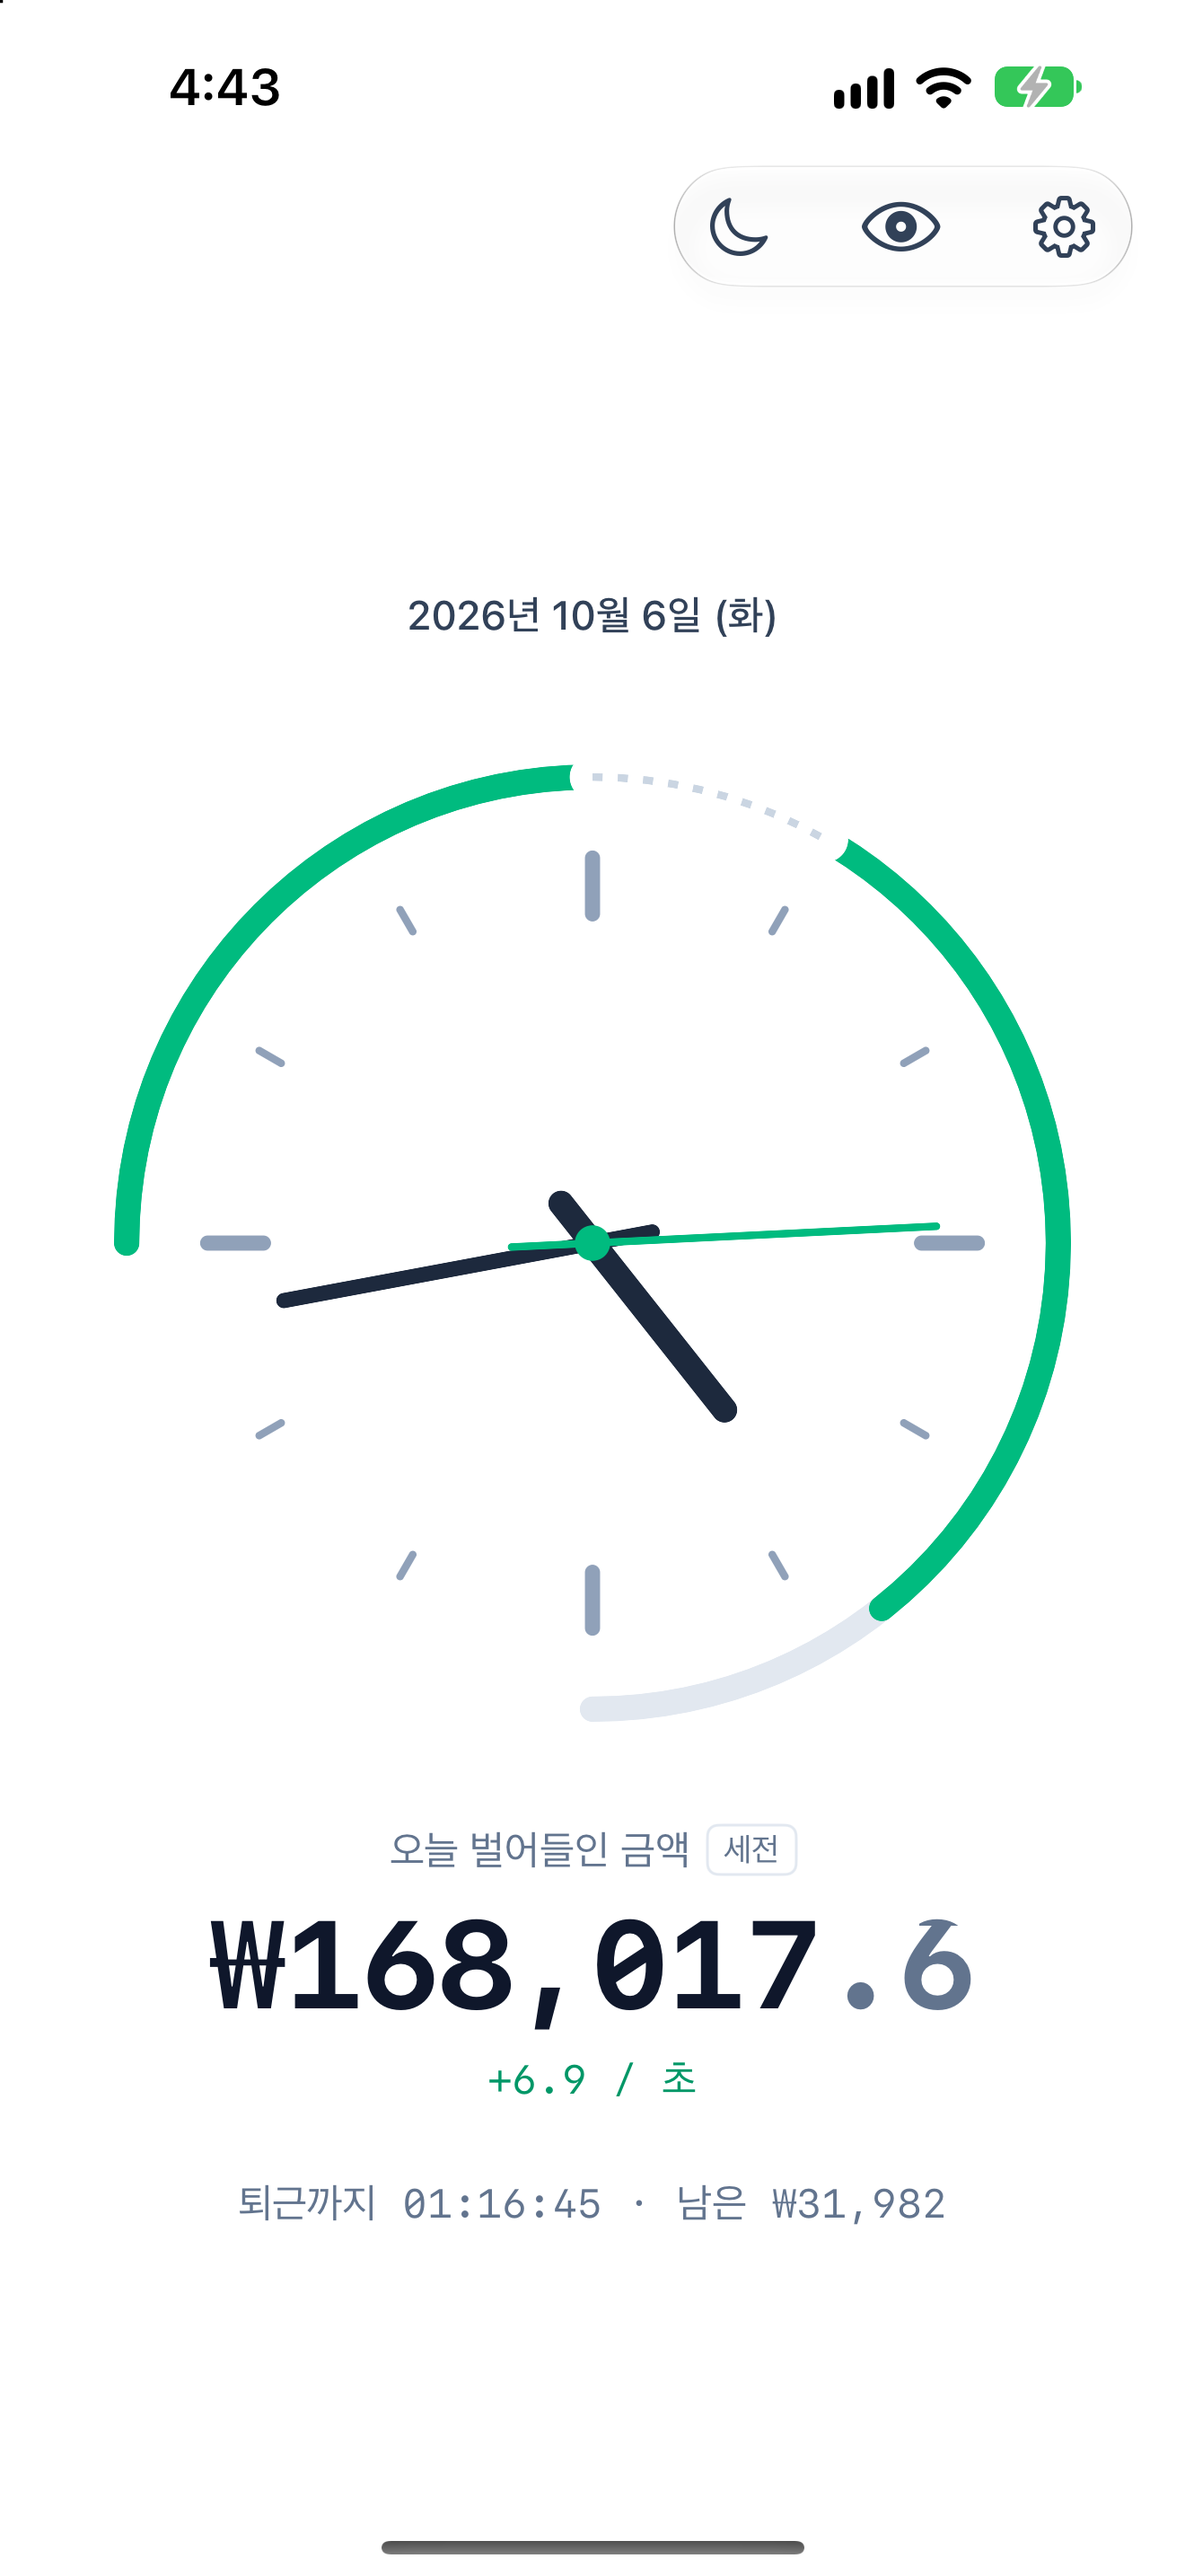
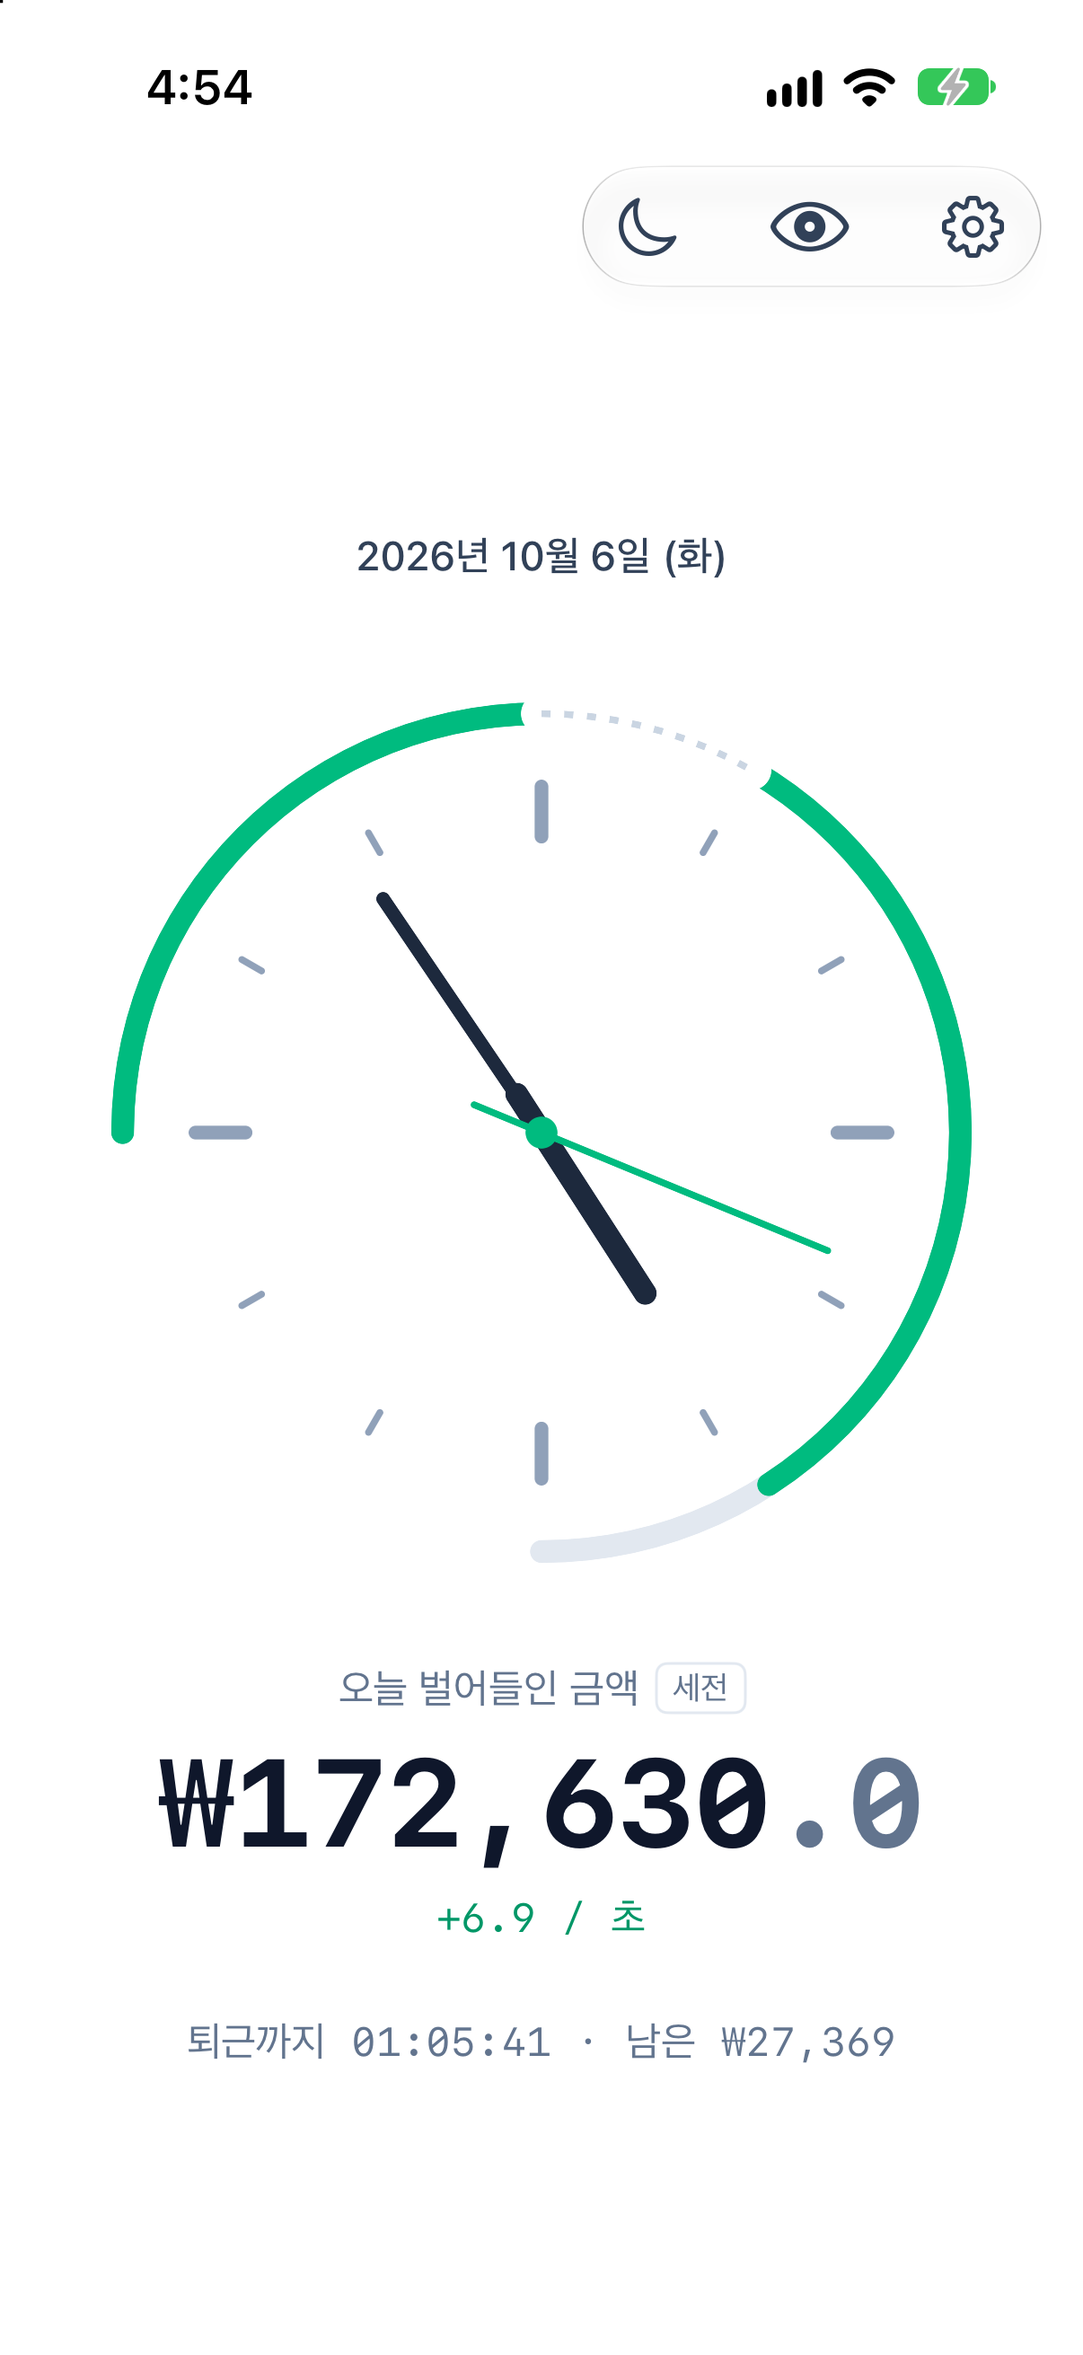
chore: 스크린샷을 6.3인치로 다시 찍고 Mac 스크린샷을 더한다
App Store Connect는 iPhone 스크린샷을 Dynamic Island 중형(1206×2622)으로 받는다.
Mac은 화면을 캡처하지 않고, 개발 빌드가 팝오버·설정 창을 PNG로 그려 내면
(-screenshotOut) compose-mac-screenshot.swift가 메뉴바와 바탕 위에 놓는다.

diff --git a/scripts/compose-mac-screenshot.swift b/scripts/compose-mac-screenshot.swift
@@ -1,0 +1,106 @@
+// Mac App Store 스크린샷(2880×1800)을 조립한다. scripts/appstore-screenshots-mac.sh가 부른다.
+//
+// 앱이 그려 낸 팝오버·설정 창 PNG를 받아 바탕에 놓고, 위에 메뉴바 한 줄을 그린다.
+// 실제 화면을 캡처하지 않는 이유: 화면 녹화 권한이 필요하고, 바탕화면과 다른 앱의
+// 메뉴바 항목이 그대로 찍힌다.
+//
+// 사용법: compose-mac-screenshot <light|dark> <메뉴바 금액> <출력> <PNG[:배율]>...
+//   PNG가 하나면 메뉴바 아래 오른쪽에(팝오버처럼), 둘이면 나란히 가운데에 놓는다.
+import AppKit
+
+let args = CommandLine.arguments
+guard args.count >= 5 else {
+    FileHandle.standardError.write(Data("사용법: compose-mac-screenshot <light|dark> <금액> <출력> <PNG[:배율]>...\n".utf8))
+    exit(2)
+}
+let dark = args[1] == "dark"
+let menuTitle = args[2]
+let outPath = args[3]
+let inputs: [(NSImage, CGFloat)] = args[4...].map { spec in
+    let parts = spec.split(separator: ":", maxSplits: 1).map(String.init)
+    guard let img = NSImage(contentsOfFile: parts[0]), let rep = img.representations.first else {
+        FileHandle.standardError.write(Data("이미지를 못 읽었다: \(parts[0])\n".utf8)); exit(1)
+    }
+    // 픽셀 크기로 다룬다 — 입력은 레티나(2×)로 그려진 PNG다.
+    img.size = NSSize(width: rep.pixelsWide, height: rep.pixelsHigh)
+    return (img, parts.count > 1 ? CGFloat(Double(parts[1]) ?? 1) : 1)
+}
+
+let W: CGFloat = 2880, H: CGFloat = 1800, menuH: CGFloat = 48
+let rep = NSBitmapImageRep(bitmapDataPlanes: nil, pixelsWide: Int(W), pixelsHigh: Int(H), bitsPerSample: 8,
+                           samplesPerPixel: 4, hasAlpha: true, isPlanar: false, colorSpaceName: .deviceRGB,
+                           bytesPerRow: 0, bitsPerPixel: 0)!
+rep.size = NSSize(width: W, height: H)
+NSGraphicsContext.saveGraphicsState()
+NSGraphicsContext.current = NSGraphicsContext(bitmapImageRep: rep)
+
+func rgb(_ hex: UInt32, _ a: CGFloat = 1) -> NSColor {
+    NSColor(srgbRed: CGFloat((hex >> 16) & 0xff) / 255, green: CGFloat((hex >> 8) & 0xff) / 255,
+            blue: CGFloat(hex & 0xff) / 255, alpha: a)
+}
+
+// 바탕. 앱 팔레트의 slate·emerald 쪽으로 은은한 대각선 그라데이션.
+let bg = dark
+    ? NSGradient(colors: [rgb(0x0b1220), rgb(0x10241f)])!
+    : NSGradient(colors: [rgb(0xf1f5f9), rgb(0xdff3ea)])!
+bg.draw(in: NSRect(x: 0, y: 0, width: W, height: H), angle: -35)
+
+// 메뉴바. 오른쪽에 앱의 상태 항목(링 + 금액)을 그린다.
+(dark ? rgb(0x000000, 0.35) : rgb(0xffffff, 0.55)).setFill()
+NSRect(x: 0, y: H - menuH, width: W, height: menuH).fill()
+let menuFont = NSFont.monospacedDigitSystemFont(ofSize: 26, weight: .medium)
+let fg = dark ? rgb(0xf8fafc) : rgb(0x0f172a)
+let title = NSAttributedString(string: menuTitle, attributes: [.font: menuFont, .foregroundColor: fg])
+let titleSize = title.size()
+// 팝오버 하나만 놓는 장은 항목을 가운데 쪽에 두어 화면이 한쪽으로 쏠리지 않게 한다.
+let itemRight = args.count == 5 ? W * 0.62 : W - 420
+let titleX = itemRight - titleSize.width
+title.draw(at: NSPoint(x: titleX, y: H - menuH + (menuH - titleSize.height) / 2))
+let ring = NSBezierPath(ovalIn: NSRect(x: titleX - 40, y: H - menuH + 12, width: 24, height: 24))
+ring.lineWidth = 4
+fg.withAlphaComponent(0.35).setStroke(); ring.stroke()
+let arc = NSBezierPath()
+arc.appendArc(withCenter: NSPoint(x: titleX - 28, y: H - menuH + 24), radius: 12, startAngle: 90, endAngle: -150, clockwise: true)
+arc.lineWidth = 4
+rgb(0x10b981).setStroke(); arc.stroke()
+let itemCenterX = titleX - 40 + (titleSize.width + 40) / 2
+
+// 창 하나를 둥근 모서리와 그림자로 그린다.
+func place(_ img: NSImage, scale: CGFloat, at origin: NSPoint, radius: CGFloat) {
+    let rect = NSRect(origin: origin, size: NSSize(width: img.size.width * scale, height: img.size.height * scale))
+    NSGraphicsContext.saveGraphicsState()
+    let shadow = NSShadow()
+    shadow.shadowColor = NSColor.black.withAlphaComponent(dark ? 0.6 : 0.22)
+    shadow.shadowBlurRadius = 60
+    shadow.shadowOffset = NSSize(width: 0, height: -20)
+    shadow.set()
+    let path = NSBezierPath(roundedRect: rect, xRadius: radius, yRadius: radius)
+    (dark ? rgb(0x020617) : NSColor.white).setFill()
+    path.fill()
+    NSGraphicsContext.restoreGraphicsState()
+    NSGraphicsContext.saveGraphicsState()
+    path.addClip()
+    img.draw(in: rect)
+    NSGraphicsContext.restoreGraphicsState()
+}
+
+if inputs.count == 1 {
+    // 팝오버처럼: 메뉴바 항목 바로 아래, 가운데를 맞춘다.
+    let (img, s) = inputs[0]
+    let w = img.size.width * s, h = img.size.height * s
+    place(img, scale: s, at: NSPoint(x: itemCenterX - w / 2, y: H - menuH - 24 - h), radius: 28)
+} else {
+    // 나란히. 아래쪽을 맞춰 가운데에 놓는다.
+    let gap: CGFloat = 120
+    let total = inputs.reduce(0) { $0 + $1.0.size.width * $1.1 } + gap * CGFloat(inputs.count - 1)
+    var x = (W - total) / 2
+    let tallest = inputs.map { $0.0.size.height * $0.1 }.max()!
+    let baseY = (H - menuH - tallest) / 2
+    for (img, s) in inputs {
+        place(img, scale: s, at: NSPoint(x: x, y: baseY + (tallest - img.size.height * s) / 2), radius: 24)
+        x += img.size.width * s + gap
+    }
+}
+
+NSGraphicsContext.restoreGraphicsState()
+try! rep.representation(using: .png, properties: [:])!.write(to: URL(fileURLWithPath: outPath))

diff --git a/macos/SalaryClockApp/Sources/SalaryClockAppLib/AppDelegate.swift b/macos/SalaryClockApp/Sources/SalaryClockAppLib/AppDelegate.swift
@@ -129,7 +129,50 @@ public final class AppDelegate: NSObject, NSApplicationDelegate {
         // 한 번 건드리는 것이 곧 시작이다. 개발 빌드에서는 피드가 없어
         // 아무 일도 하지 않는다 (UpdaterController 주석).
         _ = UpdaterController.shared
+
+        #if DEBUG
+        // App Store 스크린샷용(scripts/appstore-screenshots-mac.sh). 팝오버와 설정 창은
+        // 메뉴바를 눌러야 열리므로, 실행 인자 `-screenshot popover|settings`로 고른
+        // 화면을 연 채 시작한다. 개발 빌드에만 있다.
+        //
+        // `-screenshotOut <경로>`를 같이 주면 연 화면을 그 경로에 PNG로 그려 두고
+        // 끝낸다. 화면 녹화 권한 없이 찍을 수 있고, 바탕화면이나 다른 앱이 섞이지
+        // 않는다.
+        let out = UserDefaults.standard.string(forKey: "screenshotOut")
+        switch UserDefaults.standard.string(forKey: "screenshot") {
+        case "popover":
+            DispatchQueue.main.asyncAfter(deadline: .now() + 1) { self.togglePopover() }
+            if let out { exportScreenshot(to: out) { self.popover.contentViewController?.view } }
+        case "settings":
+            DispatchQueue.main.asyncAfter(deadline: .now() + 1) { self.openSettings() }
+            if let out { exportScreenshot(to: out) { self.settingsWindow?.contentView?.superview } }
+        default: break
+        }
+        #endif
     }
+
+    #if DEBUG
+    /// 화면이 다 그려질 때쯤 `view()`를 레티나 해상도로 그려 PNG로 쓰고 앱을 끝낸다.
+    /// 설정 창은 제목 막대까지 담으려고 콘텐츠 뷰의 상위 뷰를, 팝오버는 말풍선 틀이
+    /// 그려지지 않으므로 내용 뷰만 받는다.
+    private func exportScreenshot(to path: String, view: @escaping () -> NSView?) {
+        DispatchQueue.main.asyncAfter(deadline: .now() + 3) {
+            guard let v = view(), let rep = v.bitmapImageRepForCachingDisplay(in: v.bounds) else {
+                FileHandle.standardError.write(Data("스크린샷: 뷰가 없다\n".utf8))
+                exit(1)
+            }
+            v.cacheDisplay(in: v.bounds, to: rep)
+            try? rep.representation(using: .png, properties: [:])?.write(to: URL(fileURLWithPath: path))
+            // 메뉴바 글자도 같이 남긴다 — 조립할 때 메뉴바에 그대로 그린다. 개발 빌드는
+            // 메뉴바를 이미지로 그리므로 버튼에서 읽지 않고 같은 함수로 다시 만든다.
+            let s = SettingsStore.shared.settings
+            let now = Int((Date().timeIntervalSince1970 * 1000).rounded())
+            let title = menuBarTitle(computeEarnings(s, now), hideAmount: s.hideAmount) ?? ""
+            try? title.write(toFile: path + ".title", atomically: true, encoding: .utf8)
+            NSApp.terminate(nil)
+        }
+    }
+    #endif
 
     /// 다음 tick 하나를 건다. 타이머는 늘 한 번만 울리고, tick이 끝날 때마다
     /// 그때의 상태로 다음 시점을 다시 정한다(nextTickDelay). 주기가 상태에 따라
